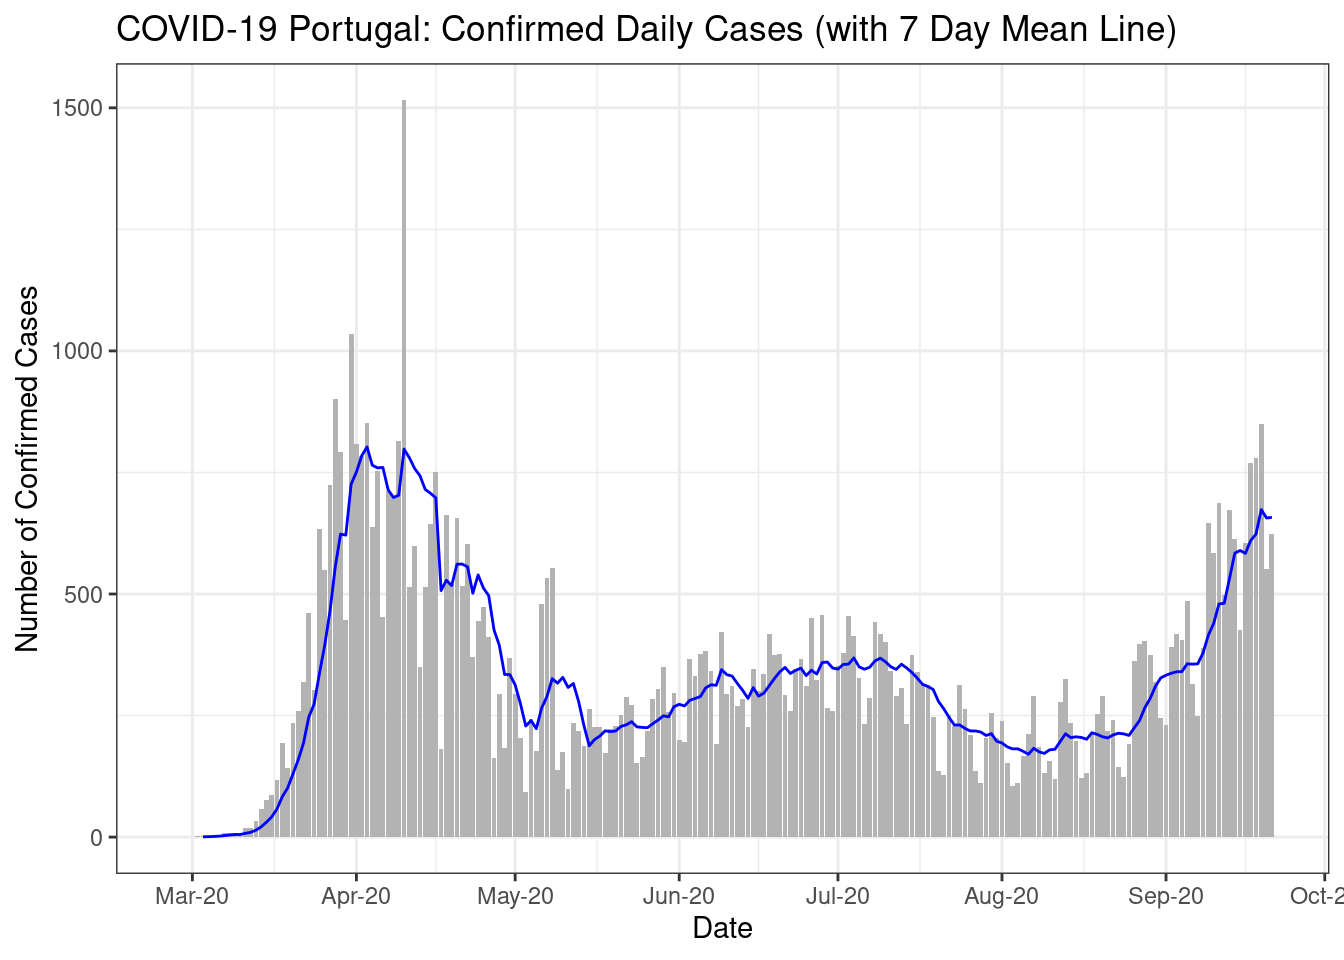
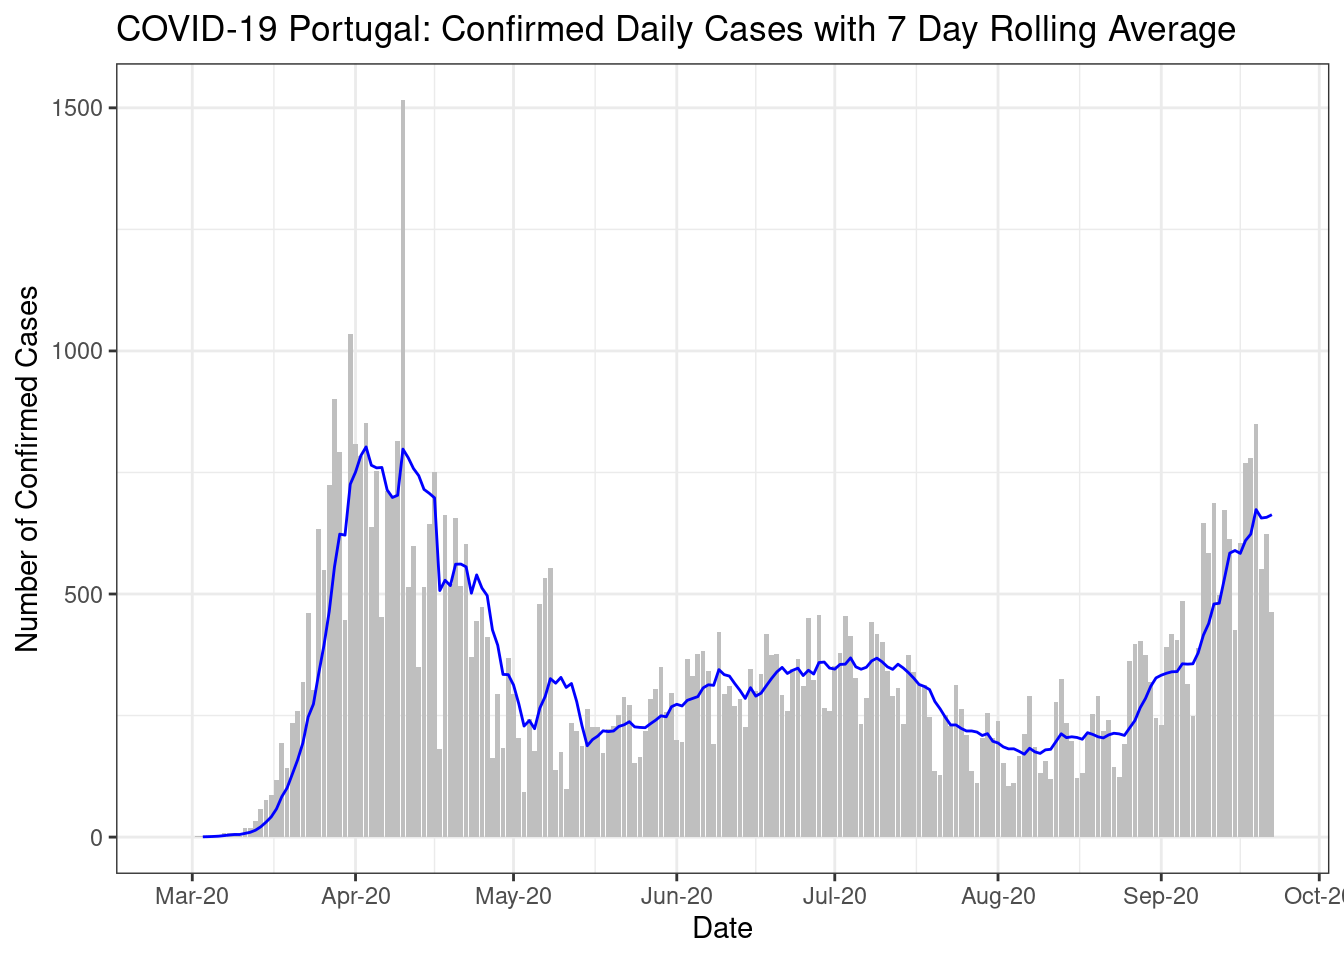
Manual update and minor changes

diff --git a/README.md b/README.md
@@ -4,9 +4,9 @@ README](https://github.com/CEAUL/Dados_COVID-19_PT/workflows/Render%20README/bad
 
 ## Daily Portuguese COVID-19 Data
 
-**Last updated: Tue 22 Sep 2020 (10:24:02 WEST \[+0100\])**
+**Last updated: Tue 22 Sep 2020 (16:38:36 WEST \[+0100\])**
 
-  - Data available from **26 Feb 2020** until **21 Sep 2020** (209
+  - Data available from **26 Feb 2020** until **22 Sep 2020** (210
     days).
 
 ### Download User Friendly Version
@@ -47,7 +47,6 @@ The original data were downloaded from an API provide by VOST
 
 |            Date | Cases\_7\_Day\_Mean |        Cases |       Active |    Recovered |     Deaths |
 | --------------: | ------------------: | -----------: | -----------: | -----------: | ---------: |
-| Sat 12 Sep 2020 |               481.0 | 63310 (+497) | 17556 (+242) | 43894 (+250) |  1860 (+5) |
 | Sun 13 Sep 2020 |               532.1 | 63983 (+673) | 18047 (+491) | 44069 (+175) |  1867 (+7) |
 | Mon 14 Sep 2020 |               584.1 | 64596 (+613) | 18540 (+493) | 44185 (+116) |  1871 (+4) |
 | Tue 15 Sep 2020 |               589.4 | 65021 (+425) | 18784 (+244) | 44362 (+177) |  1875 (+4) |
@@ -57,6 +56,7 @@ The original data were downloaded from an API provide by VOST
 | Sat 19 Sep 2020 |               673.6 | 68025 (+849) | 20722 (+493) | 45404 (+351) |  1899 (+5) |
 | Sun 20 Sep 2020 |               656.3 | 68577 (+552) | 21069 (+347) | 45596 (+192) | 1912 (+13) |
 | Mon 21 Sep 2020 |               657.7 | 69200 (+623) | 21544 (+475) | 45736 (+140) |  1920 (+8) |
+| Tue 22 Sep 2020 |               663.1 | 69663 (+463) | 21764 (+220) | 45974 (+238) |  1925 (+5) |
 
 Change from previous day in brackets.
 
@@ -71,7 +71,7 @@ Using the `data.table` package to process the data.
 ``` r
 # Load Libraries
 library(data.table)
-suppressPackageStartupMessages(library(here)) # library(here)
+library(here)
 
 # Read in data as a data.frame and data.table object.
 CV <- fread(here("data", "covid19pt_DSSG_Long.csv"))
@@ -81,19 +81,19 @@ CV <- fread(here("data", "covid19pt_DSSG_Long.csv"))
 # Looking at the data:
 tail(CV)
 ##          data   origVars   origType other symptoms sex ageGrpLower ageGrpUpper
-## 1: 2020-09-16 vigilancia vigilancia                All                        
-## 2: 2020-09-17 vigilancia vigilancia                All                        
-## 3: 2020-09-18 vigilancia vigilancia                All                        
-## 4: 2020-09-19 vigilancia vigilancia                All                        
-## 5: 2020-09-20 vigilancia vigilancia                All                        
-## 6: 2020-09-21 vigilancia vigilancia                All                        
+## 1: 2020-09-17 vigilancia vigilancia                All                        
+## 2: 2020-09-18 vigilancia vigilancia                All                        
+## 3: 2020-09-19 vigilancia vigilancia                All                        
+## 4: 2020-09-20 vigilancia vigilancia                All                        
+## 5: 2020-09-21 vigilancia vigilancia                All                        
+## 6: 2020-09-22 vigilancia vigilancia                All                        
 ##    ageGrp   region value valueUnits
-## 1:        Portugal 37287      Count
-## 2:        Portugal 37804      Count
-## 3:        Portugal 38721      Count
-## 4:        Portugal 39388      Count
-## 5:        Portugal 39362      Count
-## 6:        Portugal 40465      Count
+## 1:        Portugal 37804      Count
+## 2:        Portugal 38721      Count
+## 3:        Portugal 39388      Count
+## 4:        Portugal 39362      Count
+## 5:        Portugal 40465      Count
+## 6:        Portugal 40418      Count
 
 # Order data by original variable name and date.
 setkeyv(CV, c("origVars", "data"))
@@ -143,7 +143,7 @@ CV[origType=="confirmados" & ageGrp=="" & region!="Portugal"] %>%
     y = "Number of Confirmed Cases",
     colour = "Region")
 ## Warning: Transformation introduced infinite values in continuous y-axis
-## Warning: Removed 193 row(s) containing missing values (geom_path).
+## Warning: Removed 194 row(s) containing missing values (geom_path).
 ```
 
 <img src="README_figs/README-casesbyRegion-1.png" width="672" />
@@ -172,9 +172,9 @@ CV[dailyChange<0 & !(origType %in% c("vigilancia", "internados"))][
 ##   4: 2020-03-24 confirmados   confirmados_40_49_f   224          -2
 ##   5: 2020-03-19 confirmados   confirmados_60_69_f    35         -14
 ##  ---                                                               
-## 224: 2020-04-04      obitos    obitos_arsalentejo     0          -1
-## 225: 2020-05-23      obitos      obitos_arscentro   230          -3
-## 226: 2020-07-03      obitos      obitos_arscentro   248          -1
-## 227: 2020-06-20      obitos              obitos_f   768          -1
-## 228: 2020-05-21 transmissao transmissao_importada   767          -3
+## 225: 2020-04-04      obitos    obitos_arsalentejo     0          -1
+## 226: 2020-05-23      obitos      obitos_arscentro   230          -3
+## 227: 2020-07-03      obitos      obitos_arscentro   248          -1
+## 228: 2020-06-20      obitos              obitos_f   768          -1
+## 229: 2020-05-21 transmissao transmissao_importada   767          -3
 ```
